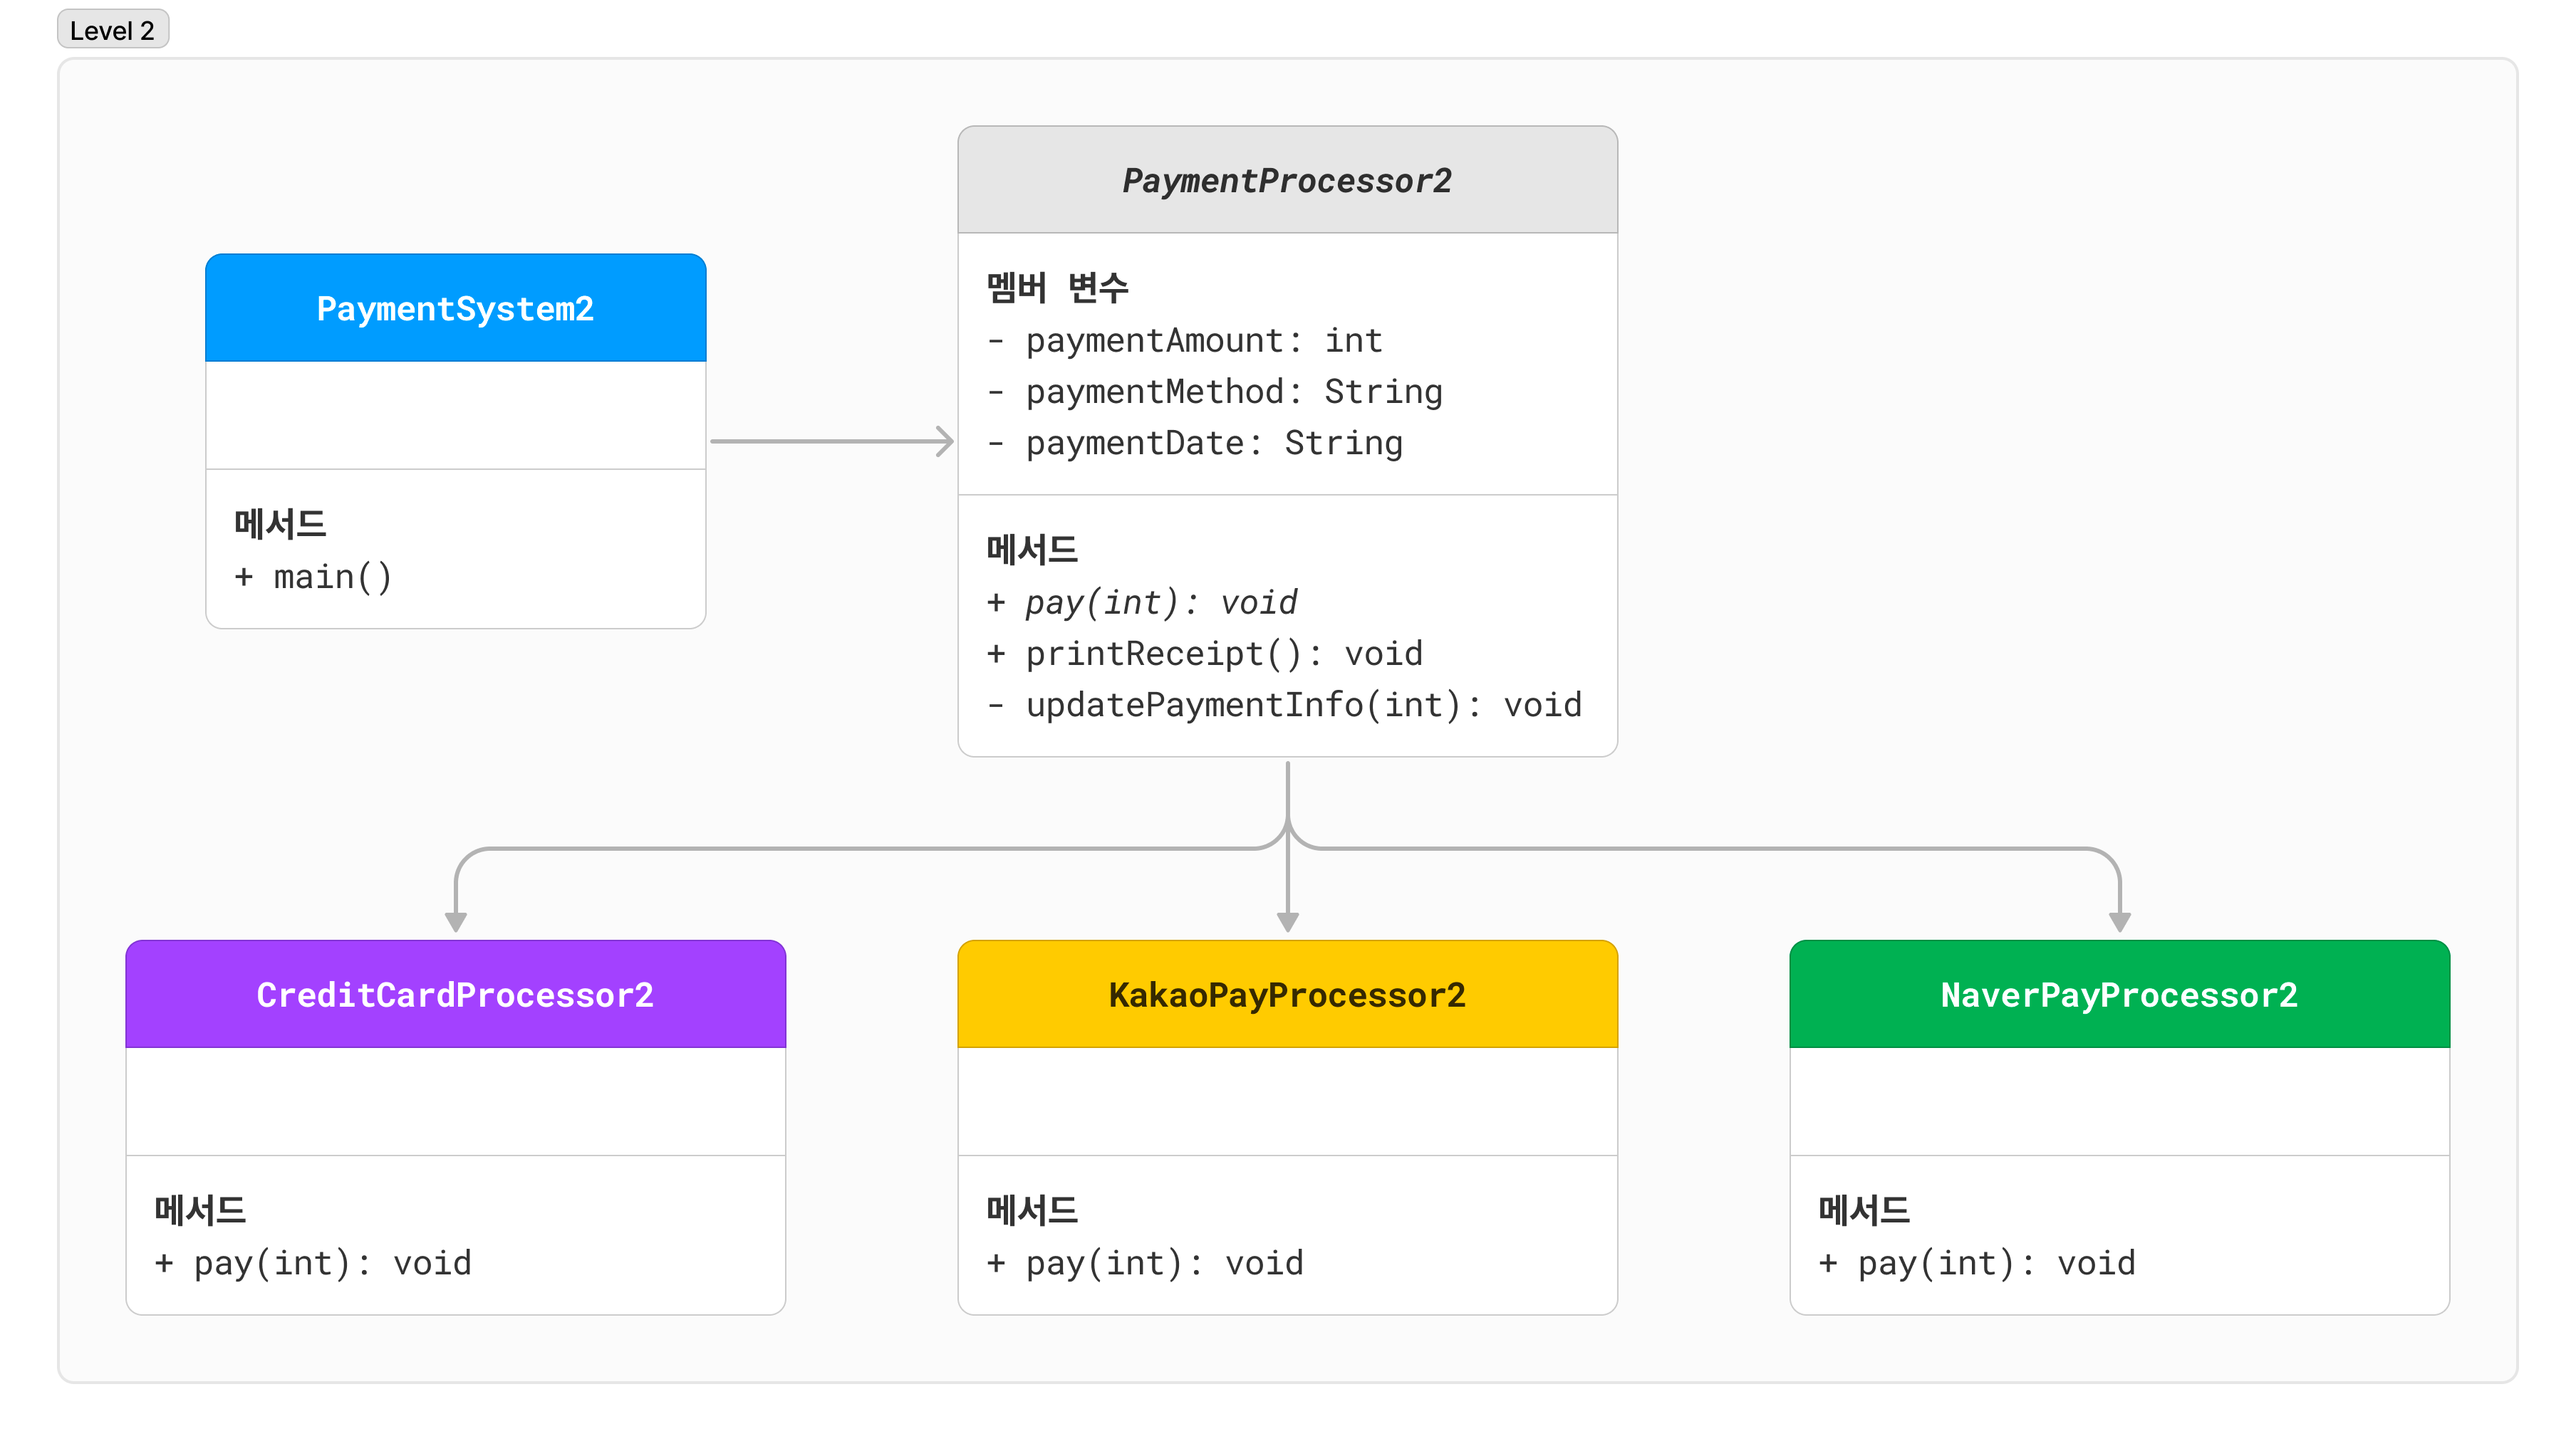
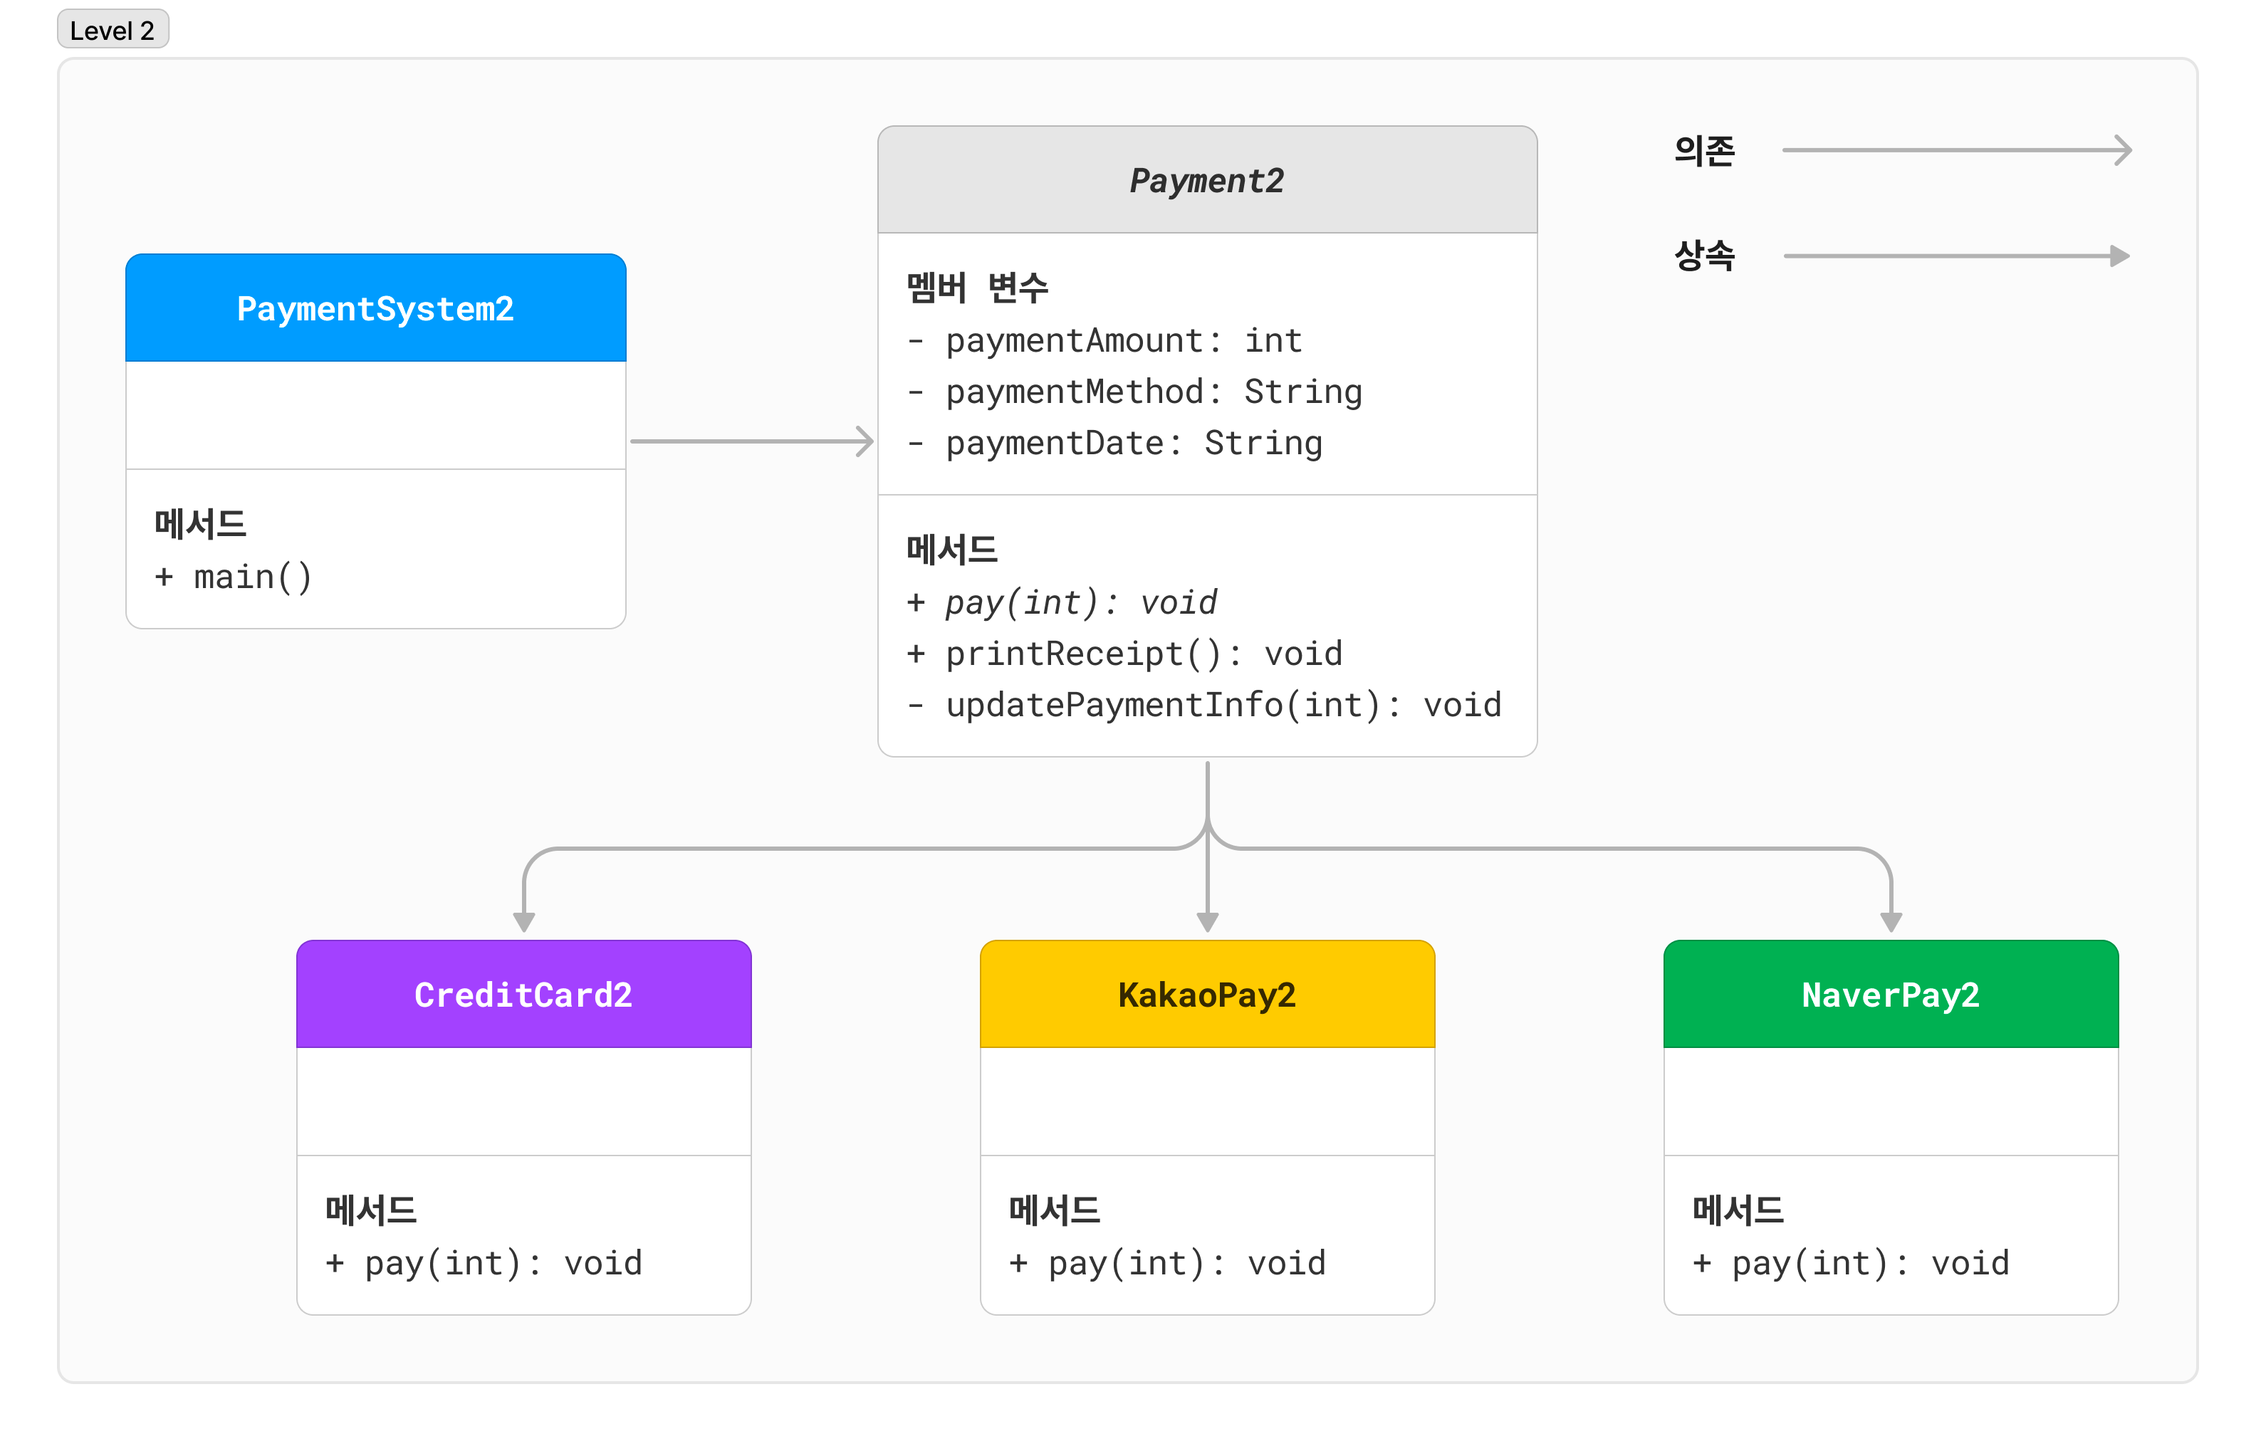
problem 3 classes rename

diff --git a/src/problem3/level1/CreditCard1.java b/src/problem3/level1/CreditCard1.java
@@ -4,9 +4,9 @@ import java.time.LocalDateTime;
 import java.time.format.DateTimeFormatter;
 
 /**
- * 카카오페이 결제 처리 클래스
+ * 신용카드 결제 처리 클래스
  */
-public class KakaoPayProcessor1 {
+public class CreditCard1 {
 
     private String paymentDate;
     private int paymentAmount;
@@ -17,14 +17,22 @@ public class KakaoPayProcessor1 {
      * @param paymentAmount 결제 금액
      */
     public void pay(int paymentAmount) {
-        System.out.printf("카카오페이로 %,d원을 결제합니다.\n", paymentAmount);
+        System.out.printf("신용카드로 %,d원을 결제합니다.\n", paymentAmount);
         updatePaymentInfo(paymentAmount);
     }
 
+    /**
+     * 영수증 출력
+     */
     public void printReceipt() {
-        System.out.printf("[%s] 카카오페이 - %,d원\n", paymentDate, paymentAmount);
+        System.out.printf("[%s] 신용카드 - %,d원\n", paymentDate, paymentAmount);
     }
 
+    /**
+     * 결제 정보 업데이트 (결제 금액과 결제 시간을 갱신)
+     *
+     * @param paymentAmount 결제 금액
+     */
     private void updatePaymentInfo(int paymentAmount) {
         this.paymentAmount = paymentAmount;
         // 아래 코드는 현재 시스템(컴퓨터)의 날짜와 시간을 가져와 문자열로 변환해 저장하는 역할을 한다는 것만 아시면 됩니다.

diff --git a/src/problem3/level1/KakaoPay1.java b/src/problem3/level1/KakaoPay1.java
@@ -4,22 +4,35 @@ import java.time.LocalDateTime;
 import java.time.format.DateTimeFormatter;
 
 /**
- * 신용카드 결제 처리 클래스
+ * 카카오페이 결제 처리 클래스
  */
-public class CreditCardProcessor1 {
+public class KakaoPay1 {
 
     private String paymentDate;
     private int paymentAmount;
 
+    /**
+     * 결제 진행
+     *
+     * @param paymentAmount 결제 금액
+     */
     public void pay(int paymentAmount) {
-        System.out.printf("신용카드로 %,d원을 결제합니다.\n", paymentAmount);
+        System.out.printf("카카오페이로 %,d원을 결제합니다.\n", paymentAmount);
         updatePaymentInfo(paymentAmount);
     }
 
+    /**
+     * 영수증 출력
+     */
     public void printReceipt() {
-        System.out.printf("[%s] 신용카드 - %,d원\n", paymentDate, paymentAmount);
+        System.out.printf("[%s] 카카오페이 - %,d원\n", paymentDate, paymentAmount);
     }
 
+    /**
+     * 결제 정보 업데이트 (결제 금액과 결제 시간을 갱신)
+     *
+     * @param paymentAmount 결제 금액
+     */
     private void updatePaymentInfo(int paymentAmount) {
         this.paymentAmount = paymentAmount;
         // 아래 코드는 현재 시스템(컴퓨터)의 날짜와 시간을 가져와 문자열로 변환해 저장하는 역할을 한다는 것만 아시면 됩니다.

diff --git a/src/problem3/level2/Payment2.java b/src/problem3/level2/Payment2.java
@@ -1,4 +1,4 @@
-package problem3.level3;
+package problem3.level2;
 
 import java.time.LocalDateTime;
 import java.time.format.DateTimeFormatter;
@@ -6,22 +6,34 @@ import java.time.format.DateTimeFormatter;
 /**
  * 결제 처리 추상 클래스
  */
-public abstract class PaymentProcessor3 {
+public abstract class Payment2 {
 
     private String paymentDate;
     private String paymentMethod;
     private int paymentAmount;
 
-    protected PaymentProcessor3(String paymentMethod) {
+    protected Payment2(String paymentMethod) {
         this.paymentMethod = paymentMethod;
     }
 
+    /**
+     * 결제 진행 (추상 메서드로 자식 클래스에서 구현해야 합니다.)
+     * @param paymentAmount 결제 금액
+     */
     public abstract void pay(int paymentAmount);
 
+    /**
+     * 영수증 출력
+     */
     public final void printReceipt() {
         System.out.printf("\n[%s] %s - %,d원\n", paymentDate, paymentMethod, paymentAmount);
     }
 
+    /**
+     * 결제 정보 업데이트 (결제 금액과 결제 시간을 갱신)
+     *
+     * @param paymentAmount 결제 금액
+     */
     protected final void updatePaymentInfo(int paymentAmount) {
         this.paymentAmount = paymentAmount;
         this.paymentDate = LocalDateTime.now()

diff --git a/src/problem3/level3/Payment3.java b/src/problem3/level3/Payment3.java
@@ -1,4 +1,4 @@
-package problem3.level2;
+package problem3.level3;
 
 import java.time.LocalDateTime;
 import java.time.format.DateTimeFormatter;
@@ -6,13 +6,13 @@ import java.time.format.DateTimeFormatter;
 /**
  * 결제 처리 추상 클래스
  */
-public abstract class PaymentProcessor2 {
+public abstract class Payment3 {
 
     private String paymentDate;
     private String paymentMethod;
     private int paymentAmount;
 
-    protected PaymentProcessor2(String paymentMethod) {
+    protected Payment3(String paymentMethod) {
         this.paymentMethod = paymentMethod;
     }
 

diff --git a/src/problem3/level3/KakaoPay3.java b/src/problem3/level3/KakaoPay3.java
@@ -1,8 +1,8 @@
 package problem3.level3;
 
-public class KakaoPayProcessor3 extends PaymentProcessor3 implements Discountable {
+public class KakaoPay3 extends Payment3 implements Discountable {
 
-    public KakaoPayProcessor3() {
+    public KakaoPay3() {
         super("카카오페이");
     }
 

diff --git a/src/problem3/level3/NaverPay3.java b/src/problem3/level3/NaverPay3.java
@@ -1,8 +1,8 @@
 package problem3.level3;
 
-public class NaverPayProcessor3 extends PaymentProcessor3 implements Discountable {
+public class NaverPay3 extends Payment3 implements Discountable {
 
-    public NaverPayProcessor3() {
+    public NaverPay3() {
         super("네이버페이");
     }
 

diff --git a/src/problem3/level3/Discountable.java b/src/problem3/level3/Discountable.java
@@ -6,7 +6,7 @@ package problem3.level3;
 public interface Discountable {
 
     /**
-     * 할인 적용
+     * 할인 적용 (추상 메서드로 자식 클래스에서 구현해야 합니다.)
      * @param originalAmount 기존 결제 금액
      * @return 할인된 결제 금액
      */

diff --git a/src/problem3/level2/CreditCard2.java b/src/problem3/level2/CreditCard2.java
@@ -1,8 +1,8 @@
-package problem3.level3;
+package problem3.level2;
 
-public class CreditCardProcessor3 extends PaymentProcessor3 {
+public class CreditCard2 extends Payment2 {
 
-    public CreditCardProcessor3() {
+    public CreditCard2() {
         super("신용카드");
     }
 

diff --git a/src/problem3/level3/CreditCard3.java b/src/problem3/level3/CreditCard3.java
@@ -1,8 +1,8 @@
-package problem3.level2;
+package problem3.level3;
 
-public class CreditCardProcessor2 extends PaymentProcessor2 {
+public class CreditCard3 extends Payment3 {
 
-    public CreditCardProcessor2() {
+    public CreditCard3() {
         super("신용카드");
     }
 

diff --git a/src/problem3/level2/KakaoPay2.java b/src/problem3/level2/KakaoPay2.java
@@ -1,8 +1,8 @@
 package problem3.level2;
 
-public class KakaoPayProcessor2 extends PaymentProcessor2 {
+public class KakaoPay2 extends Payment2 {
 
-    public KakaoPayProcessor2() {
+    public KakaoPay2() {
         super("카카오페이");
     }
 

diff --git a/src/problem3/level2/NaverPay2.java b/src/problem3/level2/NaverPay2.java
@@ -1,8 +1,8 @@
 package problem3.level2;
 
-public class NaverPayProcessor2 extends PaymentProcessor2 {
+public class NaverPay2 extends Payment2 {
 
-    public NaverPayProcessor2() {
+    public NaverPay2() {
         super("네이버페이");
     }
 

diff --git a/src/problem3/level1/NaverPay1.java b/src/problem3/level1/NaverPay1.java
@@ -6,7 +6,7 @@ import java.time.format.DateTimeFormatter;
 /**
  * 네이버페이 결제 처리 클래스
  */
-public class NaverPayProcessor1 {
+public class NaverPay1 {
 
     private String paymentDate;
     private int paymentAmount;
